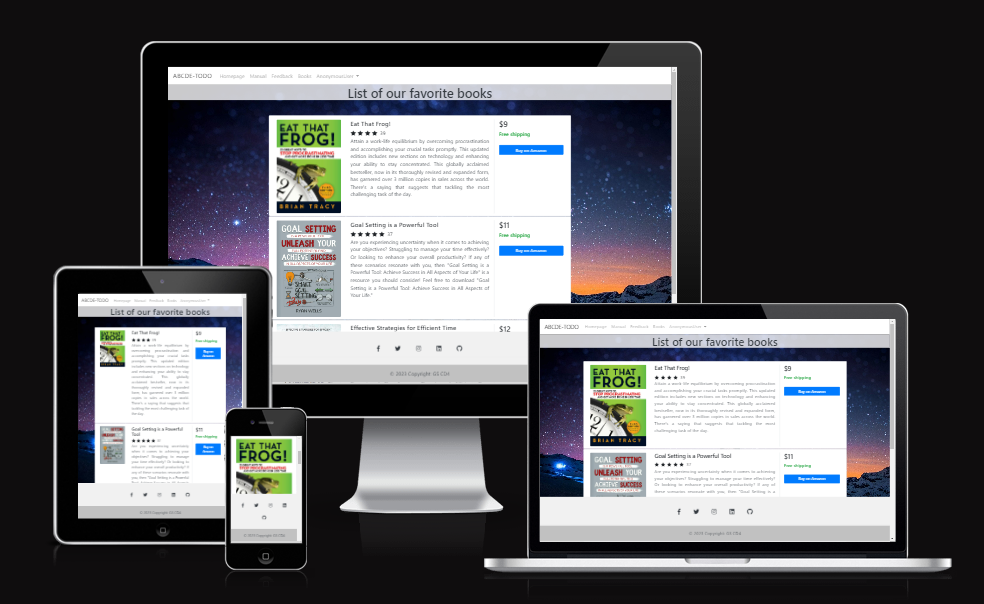
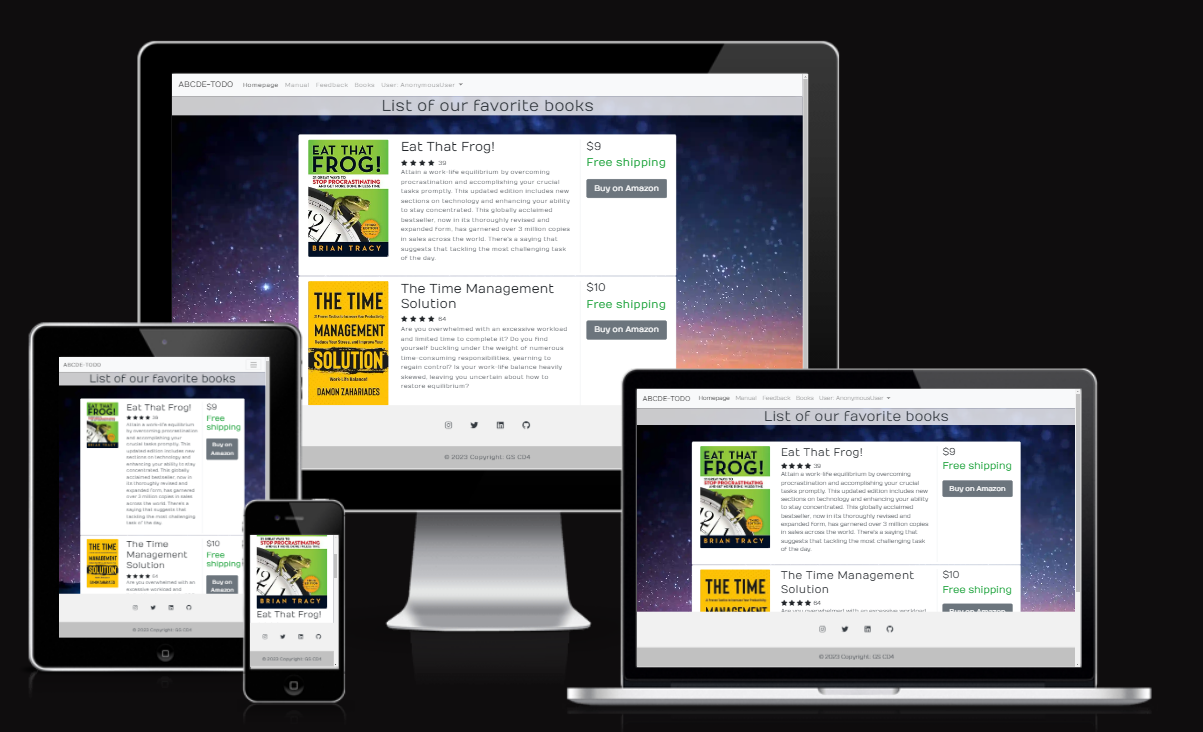
updated images of user stories and in database for books to make site faster

diff --git a/templates/base.html b/templates/base.html
@@ -26,25 +26,6 @@
   <div class="login_container pt-4 " style="background-color: #f1f1f1;" >
     <!-- Section: Social media -->
     <div class="mb-4 ">
-      <!-- Facebook -->
-      <a
-        class="btn btn-link btn-floating btn-lg text-dark m-1"
-        href="https://www.facebook.com/"
-        role="button"
-        data-mdb-ripple-color="dark"
-        aria-label="Facebook"
-        ><i class="fab fa-facebook-f"></i
-      ></a>
-
-      <!-- Twitter -->
-      <a
-        class="btn btn-link btn-floating btn-lg text-dark m-1"
-        href="https://twitter.com/"
-        role="button"
-        data-mdb-ripple-color="dark"
-        aria-label="Twitter"
-        ><i class="fab fa-twitter"></i
-      ></a>
 
       <!-- Instagram -->
       <a
@@ -54,6 +35,16 @@
         data-mdb-ripple-color="dark"
         aria-label="Instagram"
         ><i class="fab fa-instagram"></i
+      ></a>
+ 
+      <!-- Twitter -->
+      <a
+        class="btn btn-link btn-floating btn-lg text-dark m-1"
+        href="https://twitter.com/"
+        role="button"
+        data-mdb-ripple-color="dark"
+        aria-label="Twitter"
+        ><i class="fab fa-twitter"></i
       ></a>
 
       <!-- Linkedin -->

diff --git a/templates/booksapp/books.html b/templates/booksapp/books.html
@@ -39,7 +39,7 @@
     </div>
   </nav>
 
-  <h1 class="text-dark text-center mx-auto" style="background-color: rgba(252, 253, 255, 0.8); ">List of our favorite bookss</h1>
+  <h1 class="text-dark text-center mx-auto" style="background-color: rgba(252, 253, 255, 0.8); ">List of our favorite books</h1>
   <div class="container mt-5 mb-5">
     <div class="d-flex justify-content-center row">
       <div class="col-md-10">

diff --git a/todo_list/settings.py b/todo_list/settings.py
@@ -11,7 +11,7 @@ TEMPLATES_DIR = os.path.join(BASE_DIR, 'templates')
 SECRET_KEY = "SECRET_KEY"
 
 # SECURITY WARNING: don't run with debug turned on in production!
-DEBUG = True
+DEBUG = False
 ALLOWED_HOSTS = ['*']
 
 # Application definition

diff --git a/books/views.py b/books/views.py
@@ -9,7 +9,7 @@ from django.core.paginator import Paginator
 from .models import Product
 
 
-@login_required
+# @login_required
 def books(request):
     """
     This page load books and creates pagination
